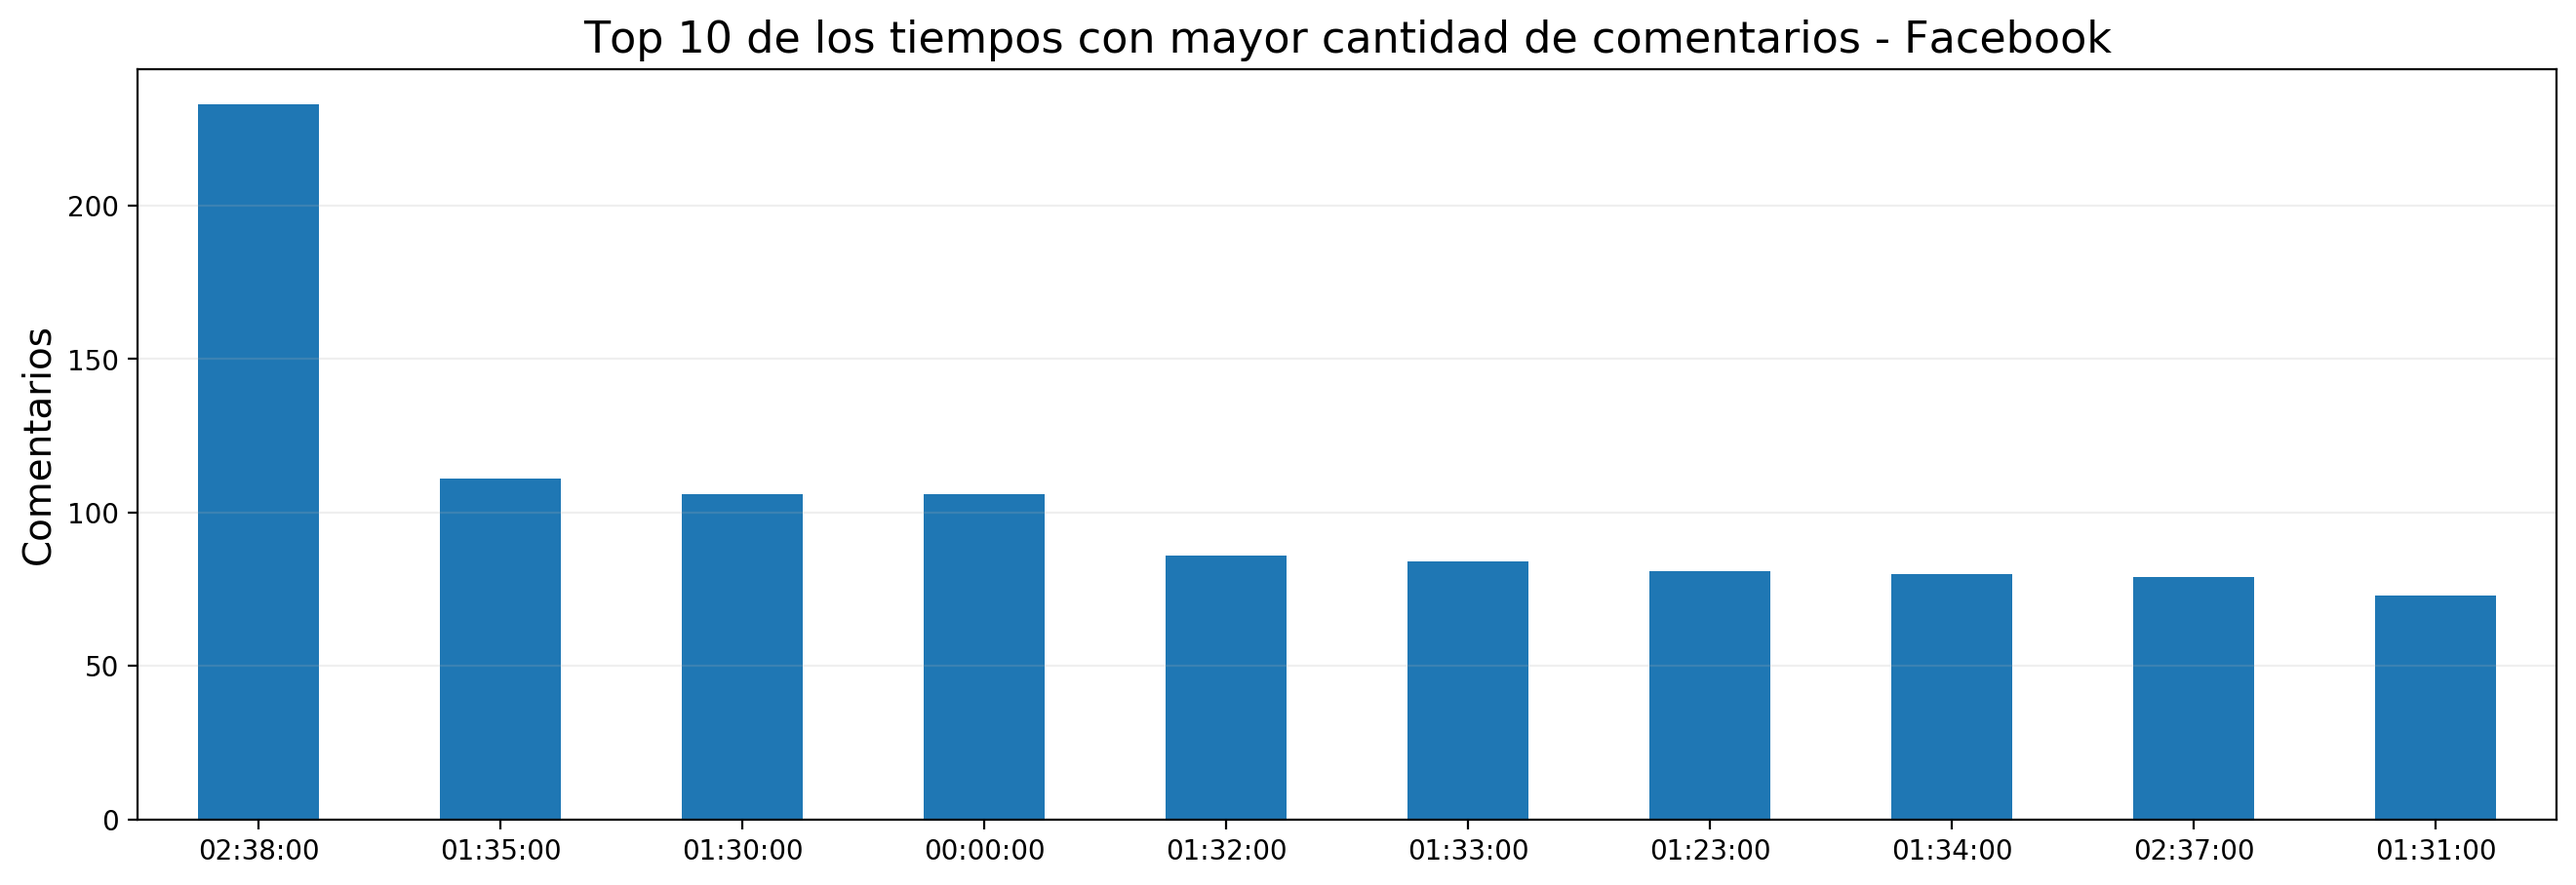
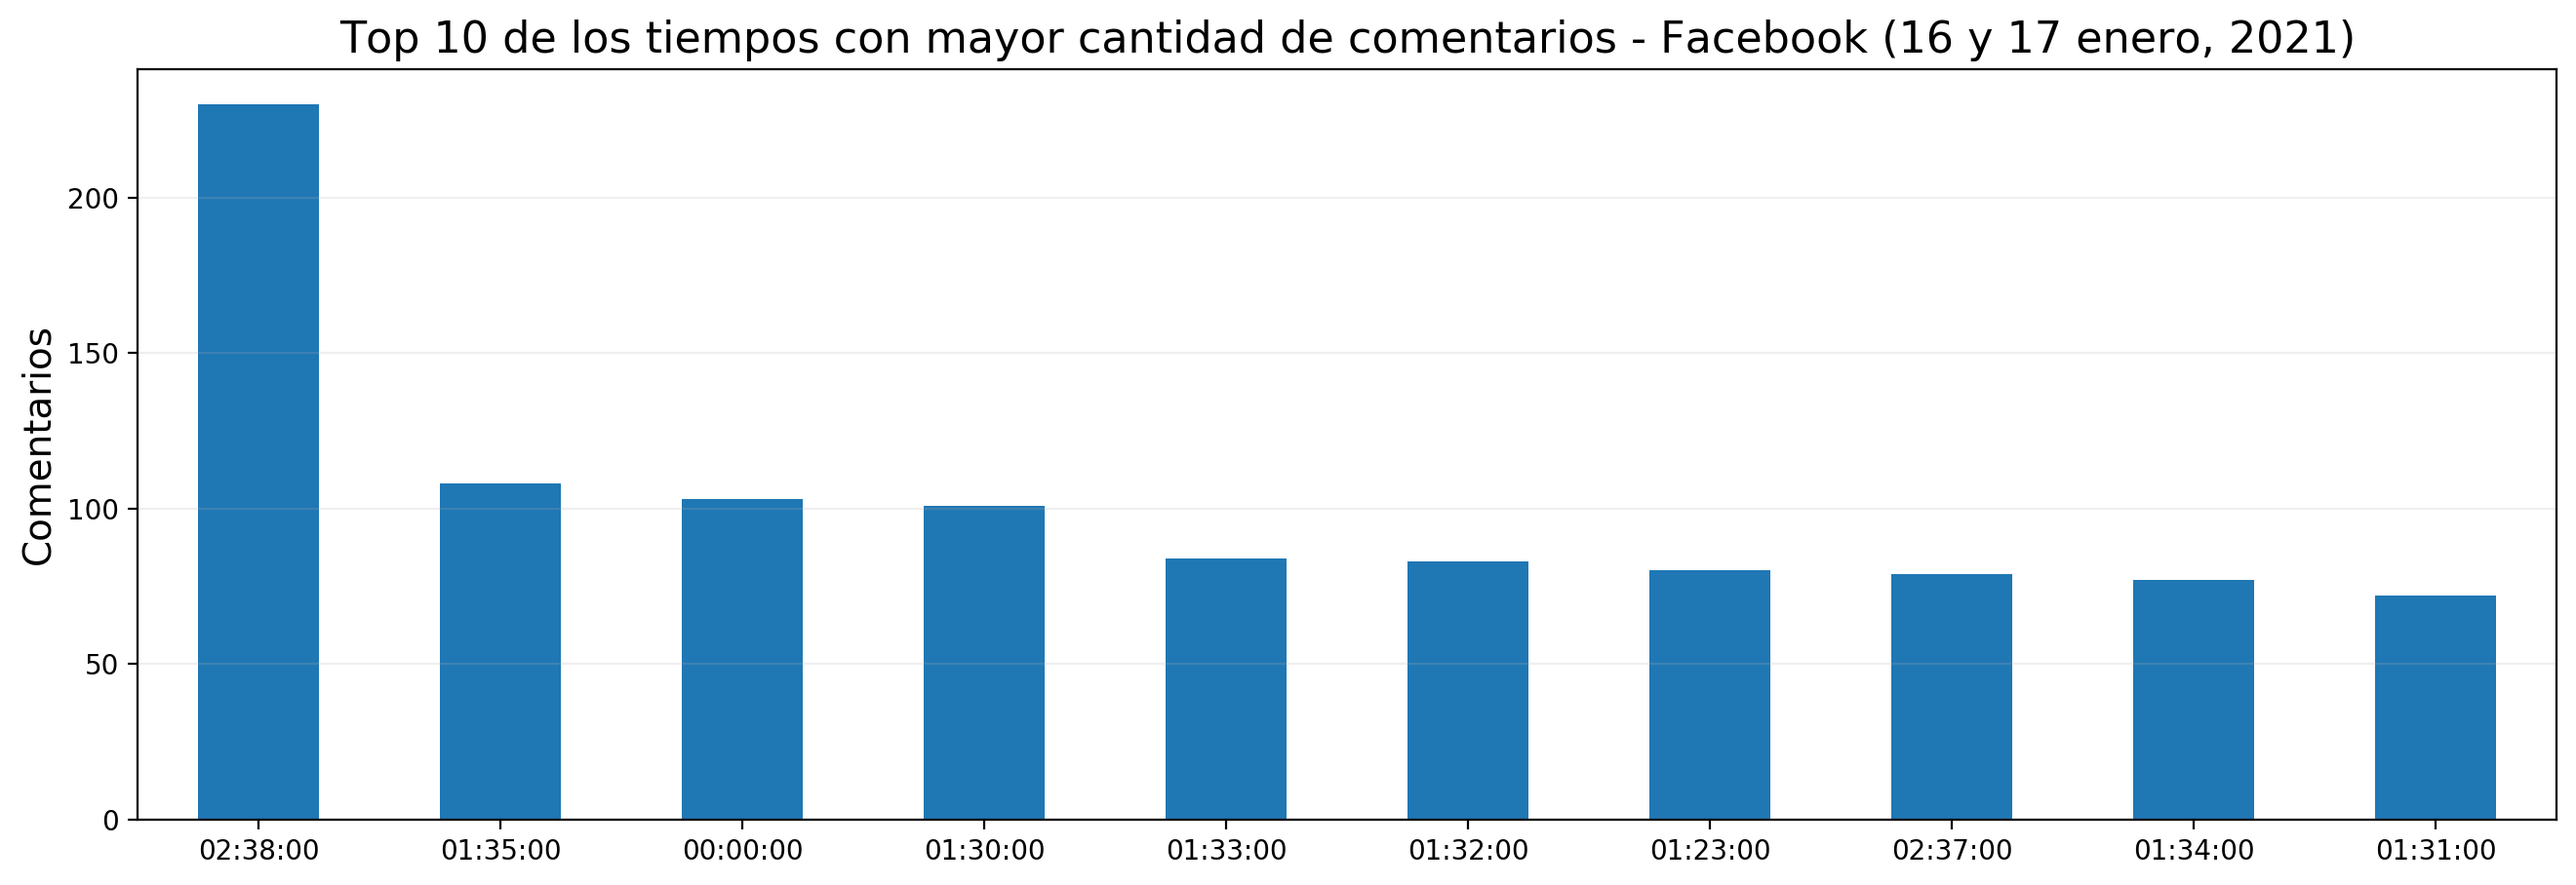
correcion de detalles

diff --git a/analysis/utils.py b/analysis/utils.py
@@ -13,7 +13,7 @@ def bar_plot(dict_values, title, ylabel, rotation=0):
     pd.Series(dict_values).plot(kind='bar', figsize=(16,5))
     plt.xticks(rotation=rotation)
     plt.ylabel(ylabel, size=14)
-    plt.title(title, size=16)
+    plt.title(title + ' (16 y 17 enero, 2021)', size=16)
     plt.grid(axis='y', alpha=.2)
     plt.savefig("analysis/images/"+title+".png",dpi=200,bbox_inches='tight')
     plt.show()
@@ -25,7 +25,7 @@ def pie_sentiment_analysis(dict_sentiment_analysis, title):
             autopct= lambda n: str(round((n/100.0)*100,1))+"%", startangle=45,labels=df.type, 
             colors=['#2bdb25','#ff795c','#f5bf42'])
     
-    plt.title(title)
+    plt.title(title + ' (16 y 17 enero, 2021)')
     plt.savefig("analysis/images/"+title+".png",dpi=200,bbox_inches='tight')
     plt.show()
 
@@ -69,7 +69,7 @@ def get_wordcloud(list_serie_texto, social_networkd_name):
 
     plt.imshow(wordcloud, interpolation='bilinear')
     plt.axis("off")
-    plt.title('WordCloud con todos los post de las Redes Sociales', size=15)
+    plt.title('WordCloud con todos los post de las Redes Sociales' + ' (16 y 17 enero, 2021)', size=15)
     # plt.title("Clasficacion {} del grafo.".format(social_networkd_name), size=15)
     plt.savefig('analysis/images/wordcloud_%s.png'%social_networkd_name,dpi=200,bbox_inches='tight')
     plt.show()

diff --git a/analysis/analysis_twitter.py b/analysis/analysis_twitter.py
@@ -68,9 +68,9 @@ df.set_index('fecha', inplace=True)
 
 analysis = get_analysis(df)
 
-# bar_plot(analysis['top_hashtag'], 'Top 10 de los Hashtag mas frecuentes - Twitter', 'Frecuencia',20)
-# bar_plot(analysis['top_mencions'], 'Top 10 de los Mentions mas frecuentes - Twitter', 'Frecuencia',20)
-# bar_plot(analysis['mean_tweet_per_hour'], 'Cantidad promedio de Tweets por hora - Twitter', 'Frecuencia')
-# bar_plot(analysis['mean_tweet_per_day'], 'Cantidad de Tweets por Dia - Twitter', 'Frecuencia')
-# pie_sentiment_analysis(analysis['sentiments'],'Análisis de Sentimientos de Tweets sobre Arauz')
+bar_plot(analysis['top_hashtag'], 'Top 10 de los Hashtag mas frecuentes - Twitter', 'Frecuencia',20)
+bar_plot(analysis['top_mencions'], 'Top 10 de los Mentions mas frecuentes - Twitter', 'Frecuencia',20)
+bar_plot(analysis['mean_tweet_per_hour'], 'Cantidad promedio de Tweets por hora - Twitter', 'Frecuencia')
+bar_plot(analysis['mean_tweet_per_day'], 'Cantidad de Tweets por Dia - Twitter', 'Frecuencia')
+pie_sentiment_analysis(analysis['sentiments'],'Análisis de Sentimientos de Tweets sobre Arauz')
 get_wordcloud([df.texto,df_fb.comentario,df_ig.texto], 'Todas las Redes Sociales')
